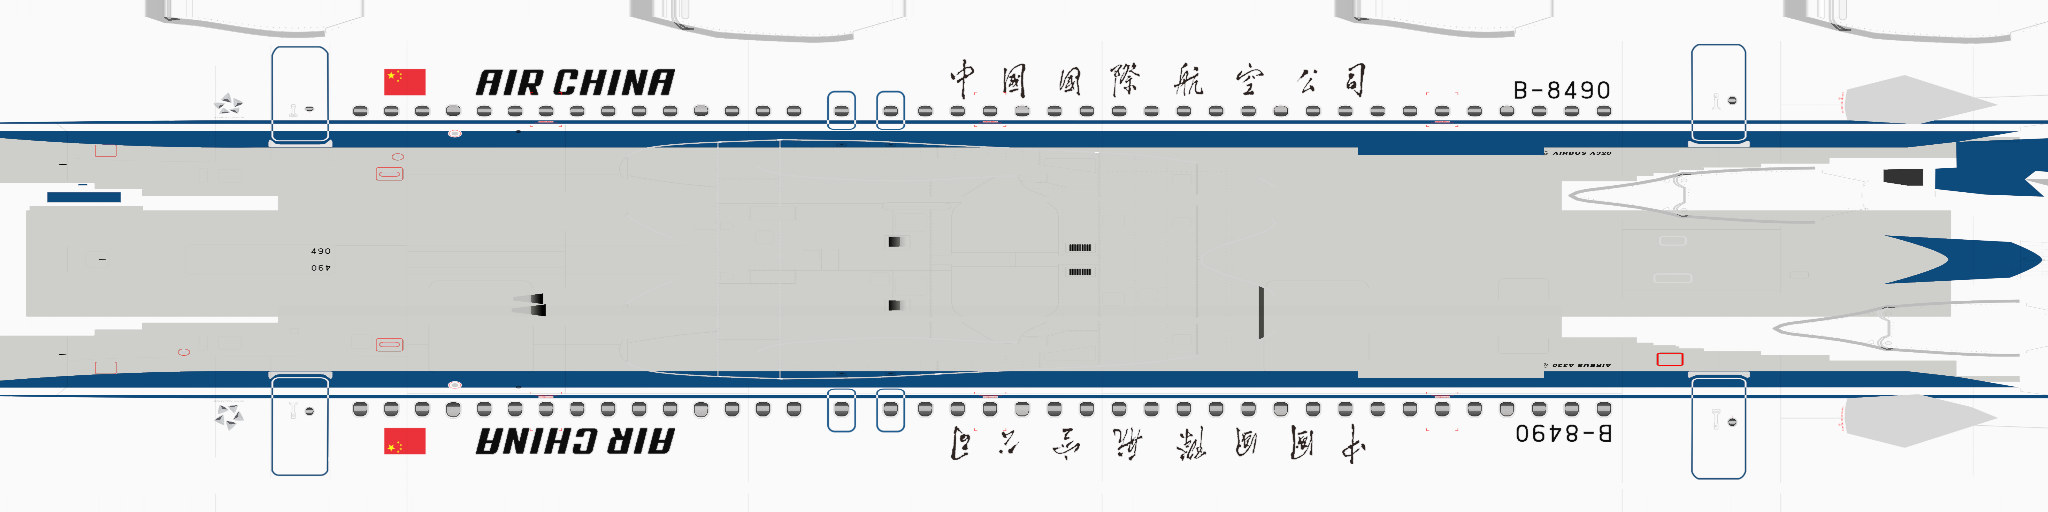
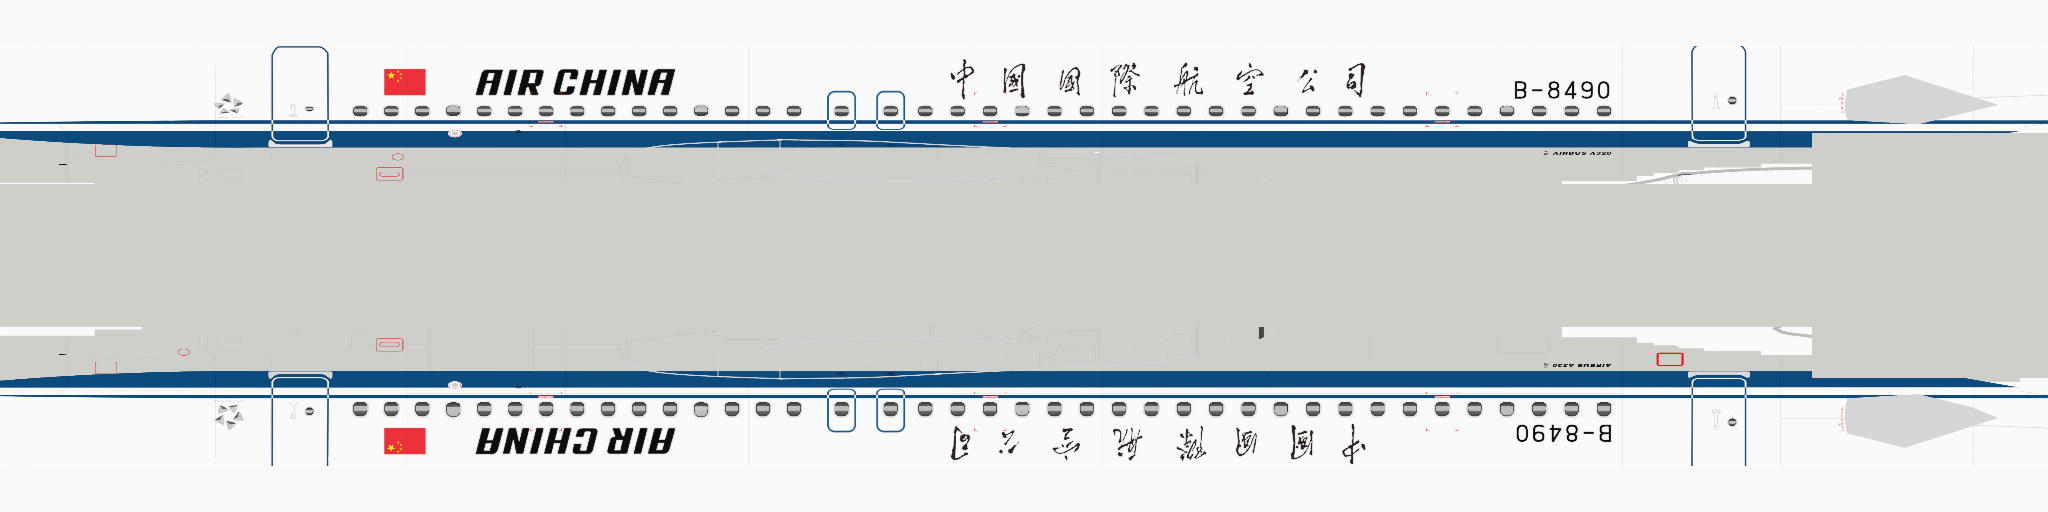
Flight hangar: livery corrections, cockpit windows redrawn, Spring Airlines and Grand China Air
- KLM: the crown is blue all the way round; Transavia: plain white belly (the red and blue blobs were
  other parts of the texture); China Southern: the AIRBUS A320neo stencil in the cheatline is painted
  over with the lines around it; Austrian: the red-logo scheme (AUA1) instead of the grey one.
- China Eastern and the other A320-family bakes: the crown and belly take one plain colour each
  (the texture keeps wing fairings and gear bays there), tail cone likewise; type stencils removed.
- Capital Airlines rebuilt from the owner's photos (white over red, dragon from the tail photo on the
  fin and by the titles, red engines with a golden lip); Loong Air from a side-view illustration
  (sky blue, white cloud at the nose, red dragon and wing sweep, dragon on the fin).
- Cockpit windows: one smooth band following the nose profile with a light frame and pane posts,
  instead of per-texel blocks.
- New painted liveries: Spring Airlines (9C) and Grand China Air (CN); airlines.json CN corrected.
- Fleet3D.debugTexture(type, airline) for checking a fuselage texture.

Claude-Session: https://claude.ai/code/session_01DPTgPf9WxpchQEe6ifFgUC

diff --git a/fleet3d.js b/fleet3d.js
@@ -145,27 +145,37 @@
     QR: { img: 'QR', name: 'Qatar Airways', zh: '卡塔尔航空', body: '#b6b8ba', belly: '#f1f1f2', engine: '#5c0632', lip: '#c9c9cb', winglet: '#5c0632', tail: 'qr',
       under: P => { P.below(0.33, '#f1f1f2'); },
       over: P => { P.title('QATAR', 0.1, tv(0.1), 0.1, { col: '#5C0631', f: SERIF, w: 700, sp: 0.04 }); } },
+    '9C': { name: 'Spring Airlines', zh: '春秋航空', belly: '#d9dde2', engine: W, winglet: '#1f9d55', tail: '9c',
+      under: P => {   // green lower fuselage rising over the rear fuselage
+        const s = u => Math.max(0, Math.min(1, (u - 0.55) / 0.45)), vb = u => 0.31 - 0.26 * s(u) ** 1.4 + 0.1 * Math.max(0, (0.1 - u) / 0.1) ** 1.5;
+        P.ribbon(vb, () => 0.5, -0.01, 1.01, '#1f9d55'); },
+      over: P => { const a = P.title([{ logo: 'springbird', col: '#1f9d55', s: 1.3, dy: -0.05 }, { gap: 0.1 }, { t: '春秋航空', w: 600, cjk: 1 }], 0.11, tv(0.05), 0.05, { col: '#1f9d55', cjk: 1 }); P.title('Spring Airlines', a[1] + 0.03, tv(0.046), 0.046, { col: '#1f9d55', w: 700 }); } },
+    CN: { name: 'Grand China Air', zh: '大新华航空', engine: W, winglet: '#c8102e', tail: 'cn',
+      under: P => { const s = u => Math.max(0, Math.min(1, (u - 0.17) / 0.83)), rt = u => 0.45 - 0.25 * s(u) ** 0.6 - 0.2 * s(u) ** 4, rb = u => 0.45 - 0.17 * s(u) ** 0.5, gb = u => rb(u) + 0.004 + 0.03 * s(u) ** 0.5;
+        P.ribbon(rb, gb, 0.17, 1, '#e0a526'); P.ribbon(rt, rb, 0.17, 1, '#c8102e'); },
+      over: P => { const a = P.title([{ logo: 'hna', col: '#c8102e' }], 0.13, tv(0.05), 0.055); const b = P.title('大新华航空', a[1] + 0.008, tv(0.048), 0.048, { col: '#c8102e', w: 600, cjk: 1, sp: 0.15 });
+        P.title('GRAND CHINA AIR', b[1] + 0.025, tv(0.044), 0.044, { col: '#c8102e', w: 700 }); } },
     TV: { img: 'TV', name: 'Tibet Airlines', zh: '西藏航空', engine: W, winglet: '#1E5AA8', tail: 'tv',
       under: P => {   // the wavy four-colour "khata" ribbon: starts under the forward door, dips under the wing, climbs to the tail and thins out
         P.below(0.42, '#d9dde2');
         const s = u => Math.max(0, Math.min(1, (u - 0.08) / 0.9)), base = u => 0.265 + 0.07 * Math.sin(Math.PI * s(u)) - 0.12 * s(u) ** 3, sc = u => 1 - 0.7 * s(u) ** 3;
         [['#BB000D', 0.016], ['#D5BC00', 0.013], ['#2aa14b', 0.013], ['#1E5AA8', 0.017]].reduce((v, [col, th]) => { P.ribbon(u => base(u) + v * sc(u), u => base(u) + (v + th) * sc(u), 0.08, 1.01, col); return v + th; }, 0); },
       over: P => { const a = P.title('西藏航空', 0.12, tv(0.046), 0.046, { col: '#111', w: 600, cjk: 1, sp: 0.1 }); P.title('TIBET AIRLINES', a[1] + 0.025, tv(0.042), 0.042, { col: '#111', w: 700 }); } },
-    JD: { img: 'JD', name: 'Capital Airlines', zh: '首都航空', belly: '#d9dde2', engine: W, winglet: '#E41720', tail: 'jd',
+    JD: { img: 'JD', overOnArt: true, name: 'Capital Airlines', zh: '首都航空', belly: '#e2231a', engine: '#e2231a', lip: '#f3c21a', winglet: '#e2231a', tail: 'jd',
       under: P => {   // the rear fuselage is red, the red climbing from the belly to the crown ahead of the fin, with a golden brush sweep along its edge
         P.below(0.44, '#d9dde2');
         const s = u => Math.max(0, Math.min(1, (u - 0.66) / 0.24)), edge = u => 0.5 - 0.5 * s(u) ** 1.3;
         P.ribbon(edge, () => 0.5, 0.66, 1.01, '#E41720');
         P.ribbon(u => edge(u) - 0.035 * Math.sin(Math.PI * Math.min(1, s(u) * 1.1)), u => edge(u) + 0.004, 0.66, 1.01, '#F5CC00'); },
-      over: P => { const a = P.title([{ logo: 'jdswoosh', col: '#E41720', s: 1.2, dy: -0.05 }, { gap: 0.1 }, { t: '首都航空', w: 600, cjk: 1 }], 0.11, tv(0.05), 0.05, { col: '#E41720', cjk: 1 }); P.title('Capital Airlines', a[1] + 0.03, tv(0.05), 0.05, { col: '#111', i: 1, w: 700 }); } },
+      over: P => { P.title('首都航空', 0.225, 0.15, 0.036, { col: '#1a1a1a', w: 600, cjk: 1, sp: 0.1, anchor: 'end' }); P.title('Capital Airlines', 0.285, 0.15, 0.036, { col: '#1a1a1a', i: 1, w: 700 }); } },
     KY: { name: 'Kunming Airlines', zh: '昆明航空', belly: '#d9dde2', engine: W, winglet: '#C8102E', tail: 'ky',
       under: P => { P.below(0.42, '#d9dde2'); },
       over: P => { const a = P.title('昆明航空', 0.12, tv(0.05), 0.05, { col: '#C8102E', w: 600, cjk: 1, sp: 0.15 }); P.title('Kunming Airlines', a[1] + 0.03, tv(0.046), 0.046, { col: '#C8102E', w: 700 }); } },
-    GJ: { name: 'Loong Air', zh: '长龙航空', belly: '#8EC8EB', engine: W, lip: '#c9d0d8', winglet: '#8EC8EB', tail: 'gj',
+    GJ: { img: 'GJ', overOnArt: true, name: 'Loong Air', zh: '长龙航空', belly: '#8EC8EB', engine: W, lip: '#c9d0d8', winglet: '#8EC8EB', tail: 'gj',
       under: P => {   // sky-blue lower fuselage that rises over the rear fuselage into the blue fin
         const s = u => Math.max(0, Math.min(1, (u - 0.55) / 0.45)), vb = u => 0.31 - 0.3 * s(u) ** 1.5 + 0.1 * Math.max(0, (0.1 - u) / 0.1) ** 1.5;
         P.ribbon(vb, () => 0.5, -0.01, 1.01, '#8EC8EB'); },
-      over: P => { const a = P.title('长龙航空', 0.12, tv(0.05), 0.05, { col: '#1b3f8f', w: 600, cjk: 1, sp: 0.2 }); P.title('LOONG AIR', a[1] + 0.03, tv(0.046), 0.046, { col: '#1b3f8f', w: 800 }); } },
+      over: P => { const a = P.title('浙江长龙航空', 0.27, 0.14, 0.03, { col: '#d9262c', w: 700, cjk: 1, sp: 0.05 }); P.title('LOONGAIR', a[1] + 0.03, 0.142, 0.03, { col: '#d9262c', w: 900 }); } },
   };
   // Manufacturers' house liveries, shown for airlines that have no scheme above (the airline name stays on the card)
   const HOUSE = {
@@ -315,6 +325,10 @@
       taper(x, [[0.1, -0.06], [0.14, -0.42], [0.34, -0.68], [0.64, -0.9]], 0.06, 0.035, 0.0);
       x.restore();
     },
+    springbird(x, cx, cy, s, col = '#1f9d55') {   // Spring Airlines: three green brush strokes rising like a bird's wing
+      x.save(); x.translate(cx, cy); x.scale(s, s); x.fillStyle = col;
+      taper(x, [[-0.5, 0.4], [-0.2, 0.3], [0.1, 0.05], [0.5, -0.45]], 0.02, 0.12, 0.0); taper(x, [[-0.45, 0.1], [-0.15, 0.0], [0.1, -0.2], [0.35, -0.5]], 0.02, 0.09, 0.0); taper(x, [[-0.35, -0.2], [-0.1, -0.3], [0.05, -0.42], [0.15, -0.55]], 0.02, 0.06, 0.0); x.restore();
+    },
     jdswoosh(x, cx, cy, s, col = '#E41720') {   // Capital Airlines: a brush swoosh with a flick, nose-left
       x.save(); x.translate(cx, cy); x.scale(s, s); x.fillStyle = col;
       taper(x, [[-0.5, 0.3], [-0.2, 0.34], [0.2, 0.1], [0.5, -0.3]], 0.0, 0.16, 0.0);
@@ -461,6 +475,8 @@
       taper(x, [[-0.3, 0.36], [0.0, 0.16], [0.3, 0.2], [0.5, 0.42]], 0.02, 0.07, 0.0); taper(x, [[-0.52, -0.22], [-0.6, -0.34], [-0.52, -0.46], [-0.4, -0.5]], 0.06, 0.04, 0.0); x.restore(); },
     ky(x, w, h, f) { bg(x, w, h, '#C8102E'); const m = f.m ? -1 : 1; x.save(); x.translate(f.cx, f.cy + f.s * 0.05); x.scale(m, 1); LOGO.peacock(x, 0, 0, f.s * 1.15); x.restore(); },
     gj(x, w, h, f) { bg(x, w, h, '#8EC8EB'); const m = f.m ? -1 : 1; x.save(); x.translate(f.cx, f.cy - f.s * 0.05); x.scale(m, 1); LOGO.dragon(x, 0, 0, f.s * 1.05); x.restore(); },
+    '9c'(x, w, h, f) { bg(x, w, h, '#1f9d55'); const m = f.m ? -1 : 1; x.save(); x.translate(f.cx, f.cy); x.scale(m, 1); LOGO.springbird(x, 0, 0, f.s * 1.2, '#ffffff'); x.restore(); },
+    cn(x, w, h, f) { bg(x, w, h, '#c8102e'); LOGO.hna(x, f.cx + f.s * 0.05, f.cy - f.s * 0.05, f.s * 1.1, '#e0a526'); },
     gen(x, w, h, f, liv) { bg(x, w, h, '#c9d1dc'); if (liv.code) lab(x, f, liv.code, f.cx, f.cy, f.s * 0.5, '#2b3440'); },
   };
   function paintTail(liv, mirror, F) {
@@ -514,15 +530,22 @@
       x.beginPath(); x.roundRect(u * cw, winV * ch - winH / 2, winW, winH, winW / 2); x.fill();
       x.beginPath(); x.roundRect(u * cw, (1 - winV) * ch - winH / 2, winW, winH, winW / 2); x.fill();
     }
-    // cockpit windows: one band at windshield height, worked out from the nose profile so it wraps round the front without a break
-    const tn = Math.min(0.13, 2.1 * R / L), cs = 1; x.fillStyle = '#121a24';
-    for (let px = 0; px < tn * cw; px += cs) for (let py = 0; py < 0.3 * ch; py += cs) {
-      const a = (px + cs / 2) / (tn * cw), e = Math.sqrt(Math.max(0, 1 - (1 - a) ** 2)), th = (py + cs / 2) / ch * 2 * Math.PI;
-      const y = (-0.28 * (1 - a) ** 2 + hf * e * Math.cos(th)) / 0.27 - 0.2 / 0.27, z = Math.abs(e * Math.sin(th));   // y: 0…1 across the windshield height
-      if (y < 0 || y > 1 || a < 0.06 || a > 0.66 - 0.12 * y || z < 0.025 || Math.abs(z - 0.42) < 0.02 || Math.abs(z - 0.74) < 0.02) continue;
-      x.fillRect(px, py, cs, cs); x.fillRect(px, ch - py - cs, cs, cs);
-    }
-    if (art) return c;
+    // cockpit windows: one dark band wrapping round the nose, split into panes by light frames. For each texture column the band's
+    // angular extent follows from the nose profile (height y across the windshield ↔ angle round the fuselage), so the edges are smooth.
+    const tn = Math.min(0.13, 2.1 * R / L), nx = Math.round(tn * cw);
+    const thAt = (a, e, yy) => { const cth = (0.27 * yy + 0.2 + 0.28 * (1 - a) ** 2) / (hf * e); return cth >= 1 ? 0 : Math.acos(cth); };   // angle from the crown for windshield height yy
+    const span = a => { const e = Math.sqrt(Math.max(0, 1 - (1 - a) ** 2)), yMax = Math.min(1, (0.66 - a) / 0.12); if (a < 0.06 || yMax <= 0.02 || e < 0.05) return null;
+      const t0 = thAt(a, e, yMax), t1 = thAt(a, e, 0); return t1 - t0 < 0.002 ? null : { e, t0, t1 }; };
+    const fillBand = (col, inset) => { x.fillStyle = col;
+      for (let px = 0; px < nx; px++) { const sp = span((px + 0.5) / nx); if (!sp) continue; const y0 = (sp.t0 / (2 * Math.PI)) * ch + inset, y1 = (sp.t1 / (2 * Math.PI)) * ch - inset; if (y1 <= y0) continue;
+        x.fillRect(px, y0, 1, y1 - y0); x.fillRect(px, ch - y1, 1, y1 - y0); } };
+    fillBand('#9aa3ad', 0); fillBand('#121a24', 1.6);   // light frame around the glass
+    // pane frames: the centre post (z ≈ 0) and two posts per side at z = 0.42 and 0.74 of the nose radius
+    x.fillStyle = '#b5bcc5';
+    for (let px = 0; px < nx; px++) { const a = (px + 0.5) / nx, sp = span(a); if (!sp) continue;
+      [0, 0.42, 0.74].forEach((zg, i) => { const sn = zg / sp.e; if (sn >= 1) return; const tg = Math.asin(sn); if (tg < sp.t0 || tg > sp.t1) return;
+        const yg = tg / (2 * Math.PI) * ch, w = i ? 2.2 : 3; x.fillRect(px, yg - w / 2, 1, w); x.fillRect(px, ch - yg - w / 2, 1, w); }); }
+    if (art) { if (liv.overOnArt && liv.over) liv.over(P); return c; }
     x.strokeStyle = 'rgba(40,50,62,0.35)'; x.lineWidth = 2;
     [0.1, 0.42, 0.86].forEach(u => [0.19, 0.81].forEach(v => x.strokeRect(u * cw, (v - 0.045) * ch, 0.9 / L * cw, 0.11 * ch)));
     if (liv.over) liv.over(P);
@@ -743,6 +766,8 @@
       });
     },
     has: code => !!DIMS[String(code || '').toUpperCase()],
+    // Debug: the fuselage texture of a type in an airline's livery, as a data URL
+    debugTexture(type, airline) { const code = String(type || '').toUpperCase(), [L, , D, , o] = dimsOf(code); return paintFuselage(liveryOf(airline, code), L, D / 2, o.deck2 ? 1.2 : 1.03).toDataURL('image/png'); },
     // Resolve once the baked livery texture for this airline is loaded (or at once when there is none)
     prepare(airline, code) { return loadArt(liveryOf(airline, code)); },
     dims: code => { const [L, S, D] = dimsOf(String(code || '').toUpperCase()); return { L, S, D }; },

diff --git a/flights.html b/flights.html
@@ -10,8 +10,8 @@
 <link rel="preconnect" href="https://fonts.googleapis.com">
 <link href="https://fonts.googleapis.com/css2?family=Chakra+Petch:wght@400;500;600;700&family=JetBrains+Mono:wght@400;600&family=Pinyon+Script&family=Source+Sans+3:wght@400;600&display=swap" rel="stylesheet">
 <link rel="stylesheet" href="https://cdnjs.cloudflare.com/ajax/libs/leaflet/1.9.4/leaflet.min.css" crossorigin="">
-<script src="aviation.js?v=202610041854"></script>
-<script src="fleet3d.js?v=202610041854"></script>
+<script src="aviation.js?v=202610041921"></script>
+<script src="fleet3d.js?v=202610041921"></script>
 <style>
   /* Flight log: a private page (same travel password and encrypted file as travel.html) in a "cockpit HUD" look, dark or light (site-wide setting). */
   :root {
@@ -471,7 +471,7 @@
 </div>
 
 <script src="https://cdnjs.cloudflare.com/ajax/libs/leaflet/1.9.4/leaflet.min.js" crossorigin=""></script>
-<script src="map-base.js?v=202610041854"></script>
+<script src="map-base.js?v=202610041921"></script>
 <script>
 // ─────────────────────────────────────────────────────────────────────────────
 // Data: the flights live inside travel/travel.enc (AES-256-GCM, key derived from the

diff --git a/aviation.js b/aviation.js
@@ -66,6 +66,7 @@
   // Chinese short names; everything else shows its English name in both languages
   const AIRLINE_ZH = {
     CA: '中国国际航空', MU: '中国东方航空', CZ: '中国南方航空', HU: '海南航空', '3U': '四川航空', ZH: '深圳航空', MF: '厦门航空',
+    CN: '大新华航空',
     FM: '上海航空', HO: '吉祥航空', '9C': '春秋航空', KN: '中国联合航空', SC: '山东航空', GS: '天津航空', JD: '首都航空', PN: '西部航空',
     TV: '西藏航空', EU: '成都航空', G5: '华夏航空', '8L': '祥鹏航空', BK: '奥凯航空', NS: '河北航空', GJ: '长龙航空', QW: '青岛航空', DR: '瑞丽航空',
     CX: '国泰航空', HX: '香港航空', UO: '香港快运', NX: '澳门航空', CI: '中华航空', BR: '长荣航空', JX: '星宇航空',
